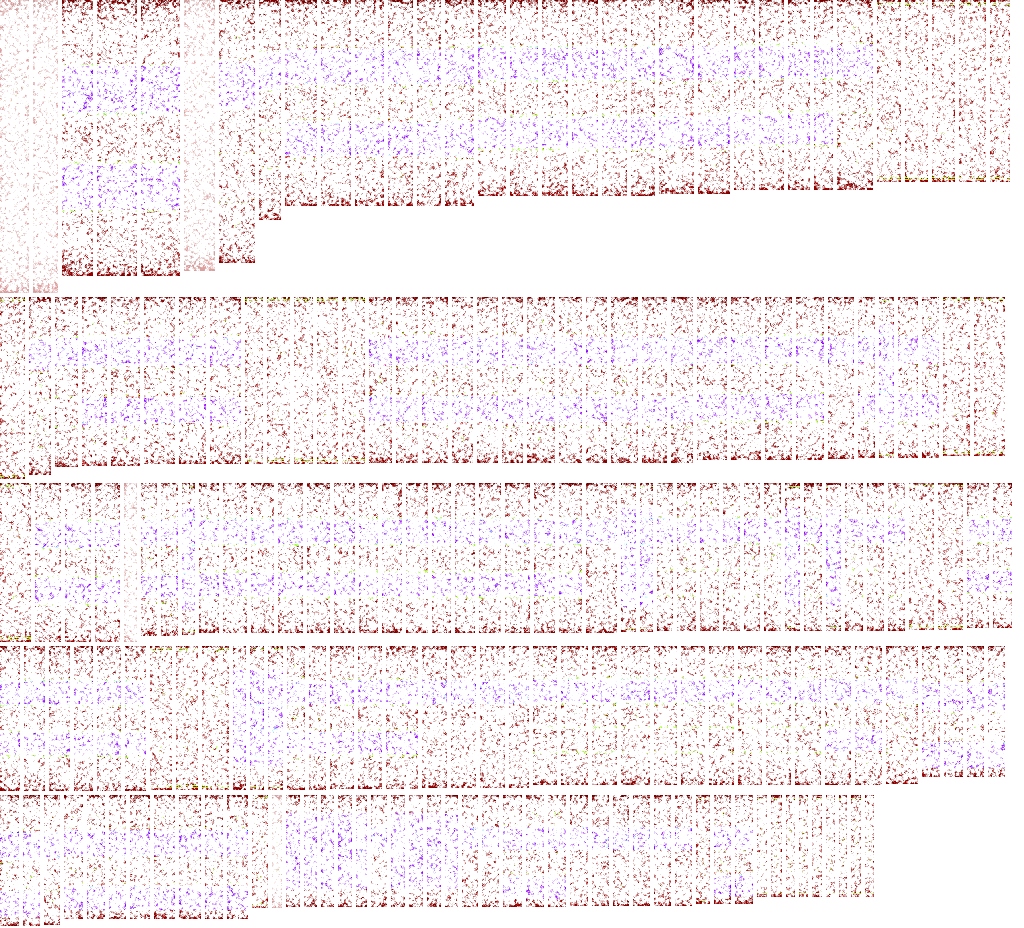
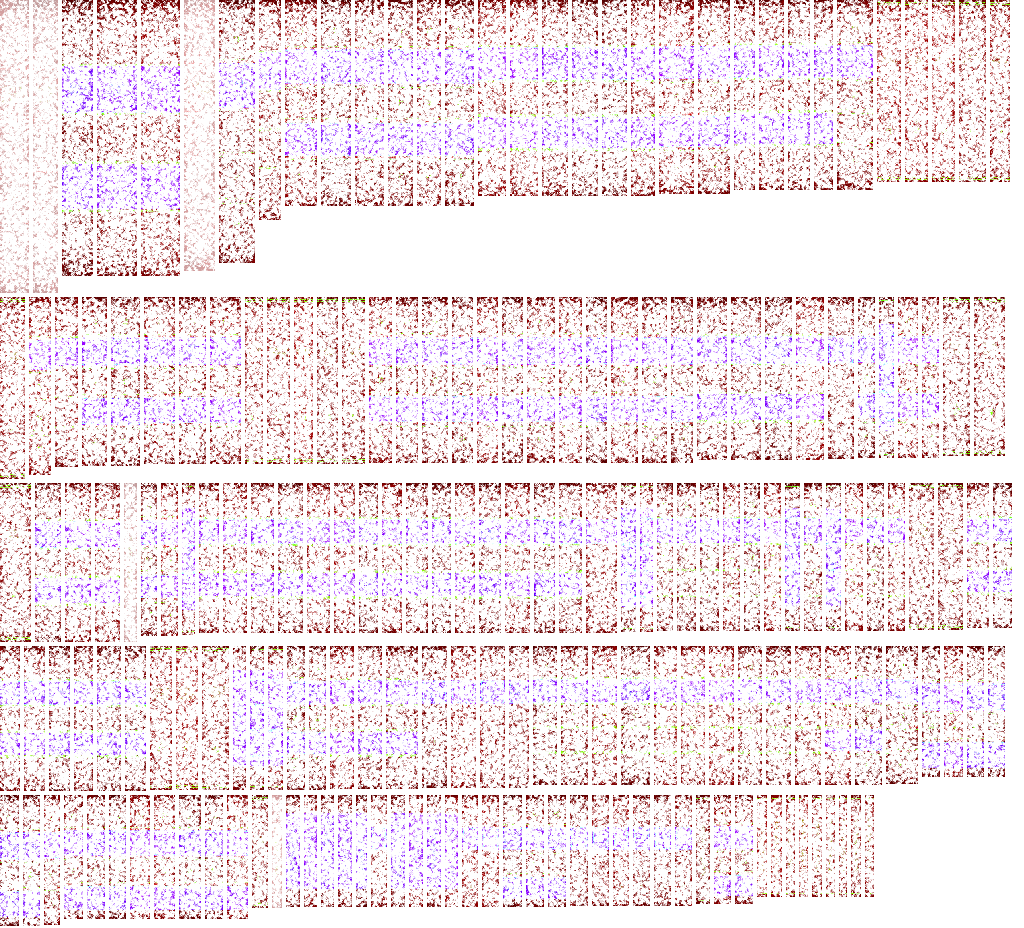
Retune the books toward library-autumn-02: aged browns, shorter runs of mixed heights, worn heads, and darker case interiors that keep the sun off what the case and its books hide.

diff --git a/tools/materials/books.py b/tools/materials/books.py
@@ -40,19 +40,22 @@ FORMATS = {
     "S": ((130, 152), (12, 20)),
 }
 
-# Colours as sRGB, aged (not as bound). Each binding picks a cover, a label, a gilt.
+# Colours as sRGB, aged (not as bound), toward library-autumn-02's case (k-means
+# #341f13 to #8e6a4d): mostly calf and half calf browns, a tan now and then; the cloth's
+# and half leather's green, blue and red muted and few. Each binding picks a cover, a
+# label, a gilt.
 COVERS = {
-    "calf": ["#7a4a2a", "#8a5a34", "#6a3e22", "#9a6a40", "#5a3420", "#a87a4c"],
-    "half": ["#5a3420", "#6e2a1e", "#3a4a2e", "#2e2a26", "#7a4a2a", "#2c3346", "#8a3a24"],
-    "house": ["#4e2e1c"],
-    "cloth": ["#3e4a32", "#5a2228", "#2e3a52", "#5a4030", "#4a3a48", "#6a5a3a", "#2a3a34"],
-    "vellum": ["#d9c9a0", "#cdb98c", "#e2d4ae"],
-    "boards": ["#7a6a58", "#5e5a62", "#8a7a5e", "#6a5040", "#4e5a5a"],
-    "wraps": ["#b8ae96", "#8e98a2", "#a89a7a"],
+    "calf": ["#5e3a22", "#6c4328", "#4c2c1a", "#6a4529", "#3e2616", "#765236"],
+    "half": ["#4a2c1a", "#5a321e", "#3a2618", "#2e2420", "#5a3a26", "#523022", "#363226"],
+    "house": ["#4a2c1a"],
+    "cloth": ["#38382a", "#4a2824", "#2e3038", "#4a3626", "#3a2e2c", "#54442e", "#2c322c"],
+    "vellum": ["#b09a74", "#a48e6a", "#b8a47e"],
+    "boards": ["#5e5040", "#4e4a48", "#6a5a44", "#563e2e", "#464640"],
+    "wraps": ["#867a64", "#6e6c64", "#7c6e58"],
 }
-LABELS = {"calf": ["#7a2418", "#2a3424", "#1e1a16"], "half": ["#1e1a16", "#7a2418", "#2a3a2a"],
-          "house": ["#1e1a16"], "cloth": [None], "vellum": [None, "#7a2418"],
-          "boards": ["#e6dcc4", "#ddd2b4"], "wraps": [None]}
+LABELS = {"calf": ["#5a1e14", "#262e20", "#1e1a16"], "half": ["#1e1a16", "#5a1e14", "#262e20"],
+          "house": ["#1e1a16"], "cloth": [None], "vellum": [None, "#5a1e14"],
+          "boards": ["#cdbf9e", "#c4b694"], "wraps": [None]}
 GILT = "#c09a4e"
 INK = "#2a2018"
 
@@ -153,7 +156,10 @@ def paint_spine(b, ppm):
     else:
         tone = 0.55 + 0.30 * (grain - 0.5)
     y = np.linspace(0, 1, H)[:, None]
-    tone = tone - 0.10 * np.exp(-y / 0.04)        # the head's dust and handling
+    # each volume aged its own way: a set's spines a little darker or lighter one to the next
+    tone = tone + 0.14 * (rng.random() - 0.5)
+    # the head's dust and handling, the tail's shelf dirt, darker on the long way down
+    tone = tone - 0.16 * np.exp(-y / 0.05) - 0.06 * np.exp(-(1 - y) / 0.03) - 0.05 * y
     # compartments: raised bands (calf, vellum) or gilt false bands (half, house, cloth)
     nb = 5 if b.fmt in ("F", "Q", "O") else 4
     top, bot = 0.06 * H, 0.94 * H
@@ -228,10 +234,11 @@ def paint_spine(b, ppm):
     g = g * np.clip((flake - 0.18) * 4, 0, 1)
     # wear: head, tail, band crowns, and a few scuffs
     w = noise(rng, W, H, max(2, int(4 * mm)), 3)
-    edge = np.exp(-y / 0.025) + np.exp(-(1 - y) / 0.03)
+    # the head cap pulled by fingers, chipped and rubbed deeper than the tail's
+    edge = 1.1 * np.exp(-y / 0.035) + 0.8 * np.exp(-(1 - y) / 0.03)
     xx = np.linspace(-1, 1, W)[None, :]
-    side = np.clip(np.abs(xx) - 0.75, 0, 1) * 2.5          # the joints rub first
-    wear = np.clip((w - 0.62) * 3 + edge * 0.9 + side * 0.5, 0, 1)
+    side = np.clip(np.abs(xx) - 0.7, 0, 1) * 2.5           # the joints rub first
+    wear = np.clip((w - 0.58) * 3 + edge * (0.5 + 0.8 * w) + side * 0.6, 0, 1)
     if b.binding == "vellum":
         wear *= 0.4
     m = np.stack([np.clip(tone, 0, 1), g, np.asarray(B, float) / 255.0, wear], -1)
@@ -245,7 +252,7 @@ def colour(mask, b):
     base = np.broadcast_to(hexrgb(b.cover), m.shape[:2] + (3,)).copy()
     if b.label:
         base = base * (1 - lab) + hexrgb(b.label) * lab
-    base = base * (0.45 + 1.1 * tone)
+    base = base * (0.4 + 1.0 * tone)
     rubbed = base * 0.75 + np.array([0.42, 0.33, 0.24]) * 0.25
     base = base * (1 - wear * 0.6) + rubbed * wear * 0.6
     gilt = hexrgb(b.gilt) * (0.85 + 0.3 * tone)
@@ -283,10 +290,10 @@ def pack(cells, width):
 # The tables the room's builder takes, in the order book_cells.goose writes them.
 BINDINGS = ["calf", "half", "house", "cloth", "vellum", "boards", "wraps"]
 FORMAT_ORDER = ["F", "Q", "O", "D", "S"]
-LABEL_COLOURS = ["#7a2418", "#1e1a16", "#2a3424", "#e6dcc4"]
+LABEL_COLOURS = ["#5a1e14", "#1e1a16", "#262e20", "#cdbf9e"]
 # What else the shader's table holds after the labels: gilt, ink, the page edges plain
 # (old paper) and sprinkled red.
-EDGES = [GILT, INK, "#cbbd98", "#8e4a34"]
+EDGES = [GILT, INK, "#8a7a5c", "#5e3628"]
 
 def goose_rgb(h):
     c = hexrgb(h)

diff --git a/design/materials/README.md b/design/materials/README.md
@@ -9,7 +9,7 @@ built into the program from here (`src/native/materials.c`).
 | `plaster_tone.png` | The library's limewash (`tools/materials/plaster.py`): its tone, 1024² L8, tileable over 4 m (`surfaces::PLASTER_TILE`), 0.66 MB. `ROOM_FRAG` tints it from `surfaces::LOOK.plaster_shade` to `.plaster_light` in linear light, with a slow noise in the room's frame over it so the tile's patches don't repeat, on the ceiling, cornice, reveals and arches. In git. |
 | `outside_band.png` | The park's far tree line on a cylinder 110 m out (`tools/materials/outside.py`), 2048 × 336 RGBA over ±64° from straight out, 16 px a degree, rows linear in height from 14.05 m under the lawn to 26.26 m over it; sRGB, premultiplied in linear light, its sky cut to clear; 0.44 MB. `model3d::view_out` puts it on its cylinder round the middle window, `shaders::OUTSIDE_FRAG` draws it unlit. In git. |
 | `outside_oak.png` | The oak, 29.8 × 20 m, a billboard 70 m out at 22° right of straight out, 584 × 392 RGBA as the band, 0.26 MB. In git. |
-| `books_atlas.png` | The library's books' spines (`tools/materials/books.py`), 1024 × 928 RGBA at 0.7 texels a millimetre, 194 cells (a volume each of `book_titles.py`'s 51 titles) packed in rows by height with 4 texels between: R the cover's tone (in 64 steps), G gilt or ink, B the label, A wear (in 16 steps), 0.97 MB. The baker writes its cells and the covers' and labels' colours as `src/model3d/book_cells.goose`; `shaders::ROOM_FRAG` colours a spine from them (`model3d::books`). In git. |
+| `books_atlas.png` | The library's books' spines (`tools/materials/books.py`), 1024 × 928 RGBA at 0.7 texels a millimetre, 194 cells (a volume each of `book_titles.py`'s 51 titles) packed in rows by height with 4 texels between: R the cover's tone (in 64 steps), G gilt or ink, B the label, A wear (in 16 steps), 1.03 MB. The baker writes its cells and the covers' and labels' colours as `src/model3d/book_cells.goose`; `shaders::ROOM_FRAG` colours a spine from them (`model3d::books`). In git. |
 | `lace_f2.png`, `lace_f.png`, `lace_d.png` | The curtains' lace, three ways of it while the choice is open (f2 shown, the light tuner's `--lace` picks another): the way's field tile (1024 rows over 0.56 m, `surfaces::LACE_TILE`) over its hem's border (384 rows, 0.21 m), 1024 × 1408 L8, 0.7 MB each: 0 where the light passes, 1 the thread. `tools/materials/lace_panel.py` puts each together from the lace library's bake (`tools/materials/lace_rose2.py` for f2, `lace_rose.py` for f, `lace_blossom.py` for d); `shaders::ROOM_FRAG` reads down the field's tile and on into the hem at the cloth's foot. In git; the two not chosen go once the user chooses. |
 
 To make the mask again, with numpy and Pillow from Homebrew and the downloads of

diff --git a/docs/decisions/rendering.md b/docs/decisions/rendering.md
@@ -755,6 +755,23 @@ to be is in tasks 042, 059, 071, 081, and 086.
   hero books yet. The light tuner's Bookcases and books section turns the books off and
   scales their fade. Rejected: a baked colour atlas (A, every copy its own texels) and
   spines drawn at load (C, a font rasteriser in the app).
+- The books are retuned toward `library-autumn-02`'s case (2026-11-21, task 107,
+  `build/notes/books-tone/`), which the first fill missed: it read as a decorator's set,
+  long runs of like volumes in saturated blue, green, red and tan, lit evenly deep into
+  the case. The covers are now mostly calf and half calf browns, aged dark (sRGB #3e2616
+  to #765236), the cloth's and half leather's green, blue and red muted and rarer, the
+  labels dark; the spines' tone a little lower (0.4 + tone, was 0.45 + 1.1 tone), each
+  volume a shade of its own, darker at the head and tail, rubbed more at the head. A long
+  set stands as a run of two to eight volumes (whole now and then), and a shelf's sets
+  mix their heights. Inside the case: the spines' occlusion falls toward the head under
+  the shelf over them (0.25 to 0.55 by the room left over them, 0.75 at the foot) and
+  near the case's sides; the back 0.22, the shelves' undersides 0.3; and `ROOM_FRAG`'s
+  `case_shade` keeps the sun off what the case and its books hide (the ray out through
+  the open front, between the ends and the upright, under the shelf over it, over a
+  block standing for the books), the cases' heights repeated there from
+  `bookcases.goose`. The shelves' mean colour now measures as the concept's
+  (sRGB 0.27, 0.17, 0.10 against 0.26, 0.16, 0.10). Replaces the first palette and the
+  sets kept whole; the cases' casting no shadow of their own in the sun above.
 - A new player starts on the 3D board on a desktop and flat on a phone or tablet
   (2026-11-14, `settings::default_board`); a player's file keeps the board they had.
 - The spring stone board scatters light through its stone on a desktop only

diff --git a/tasks/107-manor-scene.md b/tasks/107-manor-scene.md
@@ -137,6 +137,17 @@ done. The tiers decide what each device draws (`AGENTS.md`'s render tiers: 2D, 3
       of their own in the sun (their interiors take the sun unshaded where it reaches
       them, which the default keys don't), the books read a little bright and orange
       beside `library-autumn-02`'s, and no hero books or busts yet
+- [x] The books' tone toward `library-autumn-02`'s case (2026-11-21,
+      `build/notes/books-tone/`): covers mostly aged calf and half calf browns, cloth and
+      coloured half leather muted and rarer, dark labels; each volume a shade of its own,
+      heads and tails darker and rubbed; long sets in runs of two to eight volumes, heights
+      mixed on a shelf; the spines darker toward the shelf over them and near the case's
+      sides, the backs and undersides darker, and the sun kept off what the case and its
+      books hide (`case_shade`). The shelves' mean colour sRGB 0.27, 0.17, 0.10 against the
+      concept's 0.26, 0.16, 0.10 (0.40, 0.25, 0.15 before). The game's shot unchanged (max
+      difference 0), frame times unchanged (3.4 ms, the Mac's floor). Still off: the
+      shelves look emptier above the books than the concept's glazed case, no hero books
+      or busts, and the books cast no shadow on each other in the sun
 - [ ] The images from ChatGPT: the simplified concept, the wallpaper, wainscot, window,
       lace, the park outside (task 106's list)
 - [ ] Dust in the sunbeam (task 104's follow-ups)

diff --git a/docs/architecture/rendering.md b/docs/architecture/rendering.md
@@ -584,11 +584,14 @@ Two open oak bookcases stand built into the hall wall either side of the door
 the wainscot's line at 1.20 m, an upper case 0.30 m deep to the architrave's head at
 2.84 m. They are part of the shell's mesh, made once when the room turns on. Their books
 (`model3d::books`) are boxes with rounded spines, about 390 of them at 10 triangles each,
-filled onto the shelves by size, sets together. Each spine samples a cell of a mask atlas
+filled onto the shelves by size, sets together in runs of a few volumes, mostly in old
+calf and half calf browns. Each spine samples a cell of a mask atlas
 (`design/materials/books_atlas.png`, 1024 × 928 RGBA8 with four mips, 5 MB on the GPU;
 its cells in `book_cells.goose`, both made by `tools/materials/books.py`), and `ROOM_FRAG`
 colours it from a table of covers and labels in the room's block, picked by the code in
-the vertex's material, with gilt, wear and the sun's fade. The titles are baked into the
+the vertex's material, with gilt, wear and the sun's fade. Inside a case the books and
+the oak are darker under each shelf and toward the back, and `case_shade` keeps the sun
+off what the case's ends, upright, shelves and books hide. The titles are baked into the
 atlas; the fonts that set them stay with the baker.
 
 ### Board and pieces

diff --git a/agents/design.md b/agents/design.md
@@ -176,8 +176,13 @@ pieces; the design boards still set the layout, glass, and controls.
   `tools/materials/books.py` (`design/materials/README.md`); with `--preview` it writes
   the atlas coloured as the shader colours it, to judge a palette without the app.
   The books' fill, colours and fade are worth judging in the hall view against
-  `library-autumn-02`'s case (`build/notes/books/crops/la2-bookcase.png`): ours read a
-  little brighter and more orange in the low sun.
+  `library-autumn-02`'s case (`build/notes/books/crops/la2-bookcase.png`). The tone round
+  (`build/notes/books-tone/`, shots by `build/books-tone/shots.sh EXE TAG [NAMES]`) put
+  them beside it at the same scale and measured a shelf's mean colour (a 110 × 40 patch
+  of books, gaps and all) against the concept's rows: sRGB 0.26, 0.16, 0.10 is the
+  target. Change the covers in `books.py` and keep its `colour()` the shader's; a case's
+  inside is darkened by the books' and the case's vertex occlusion and `case_shade`
+  (the cases' heights repeated in `ROOM_FRAG`: change them with `bookcases.goose`).
 - The tuners are built with `scripts/mac.py tools/NAME.goose`, run from `tools/`,
   and shoot headless with `GOOSE_GFX_HEADLESS=1` and `--shot out.png`.
 

diff --git a/tasks/110-manor-costs.md b/tasks/110-manor-costs.md
@@ -149,6 +149,14 @@ results, or keep baking at run time behind a loader when the room or a look is c
   probes' bake unchanged (about 47 ms). Not measured on a device. To pay later: ASTC for
   the atlas (about 0.4 MB on the GPU at 6 × 6), the books only in the views that see them.
 
+- The books' tone (2026-11-21, task 107, `build/notes/books-tone/`): the atlas the same
+  size on the GPU, its PNG 0.97 to 1.03 MB (each volume's own tone and more wear); 384
+  books (18,778 triangles, 40 fewer). `ROOM_FRAG`'s `case_shade`, for a lit pixel: a few
+  comparisons that leave at once outside the cases, a short loop over seven heights
+  inside. The light tuner's counter on the cases from the room's middle, two rounds,
+  before and after: 3.4 ms (worst 3.5 to 5.3) both, within noise. Not measured on a
+  device.
+
 Add each new cost here as it lands, with its numbers.
 
 ## Ways to pay, only where a cheap measurement shows a cost (the user, 2026-11-20)
